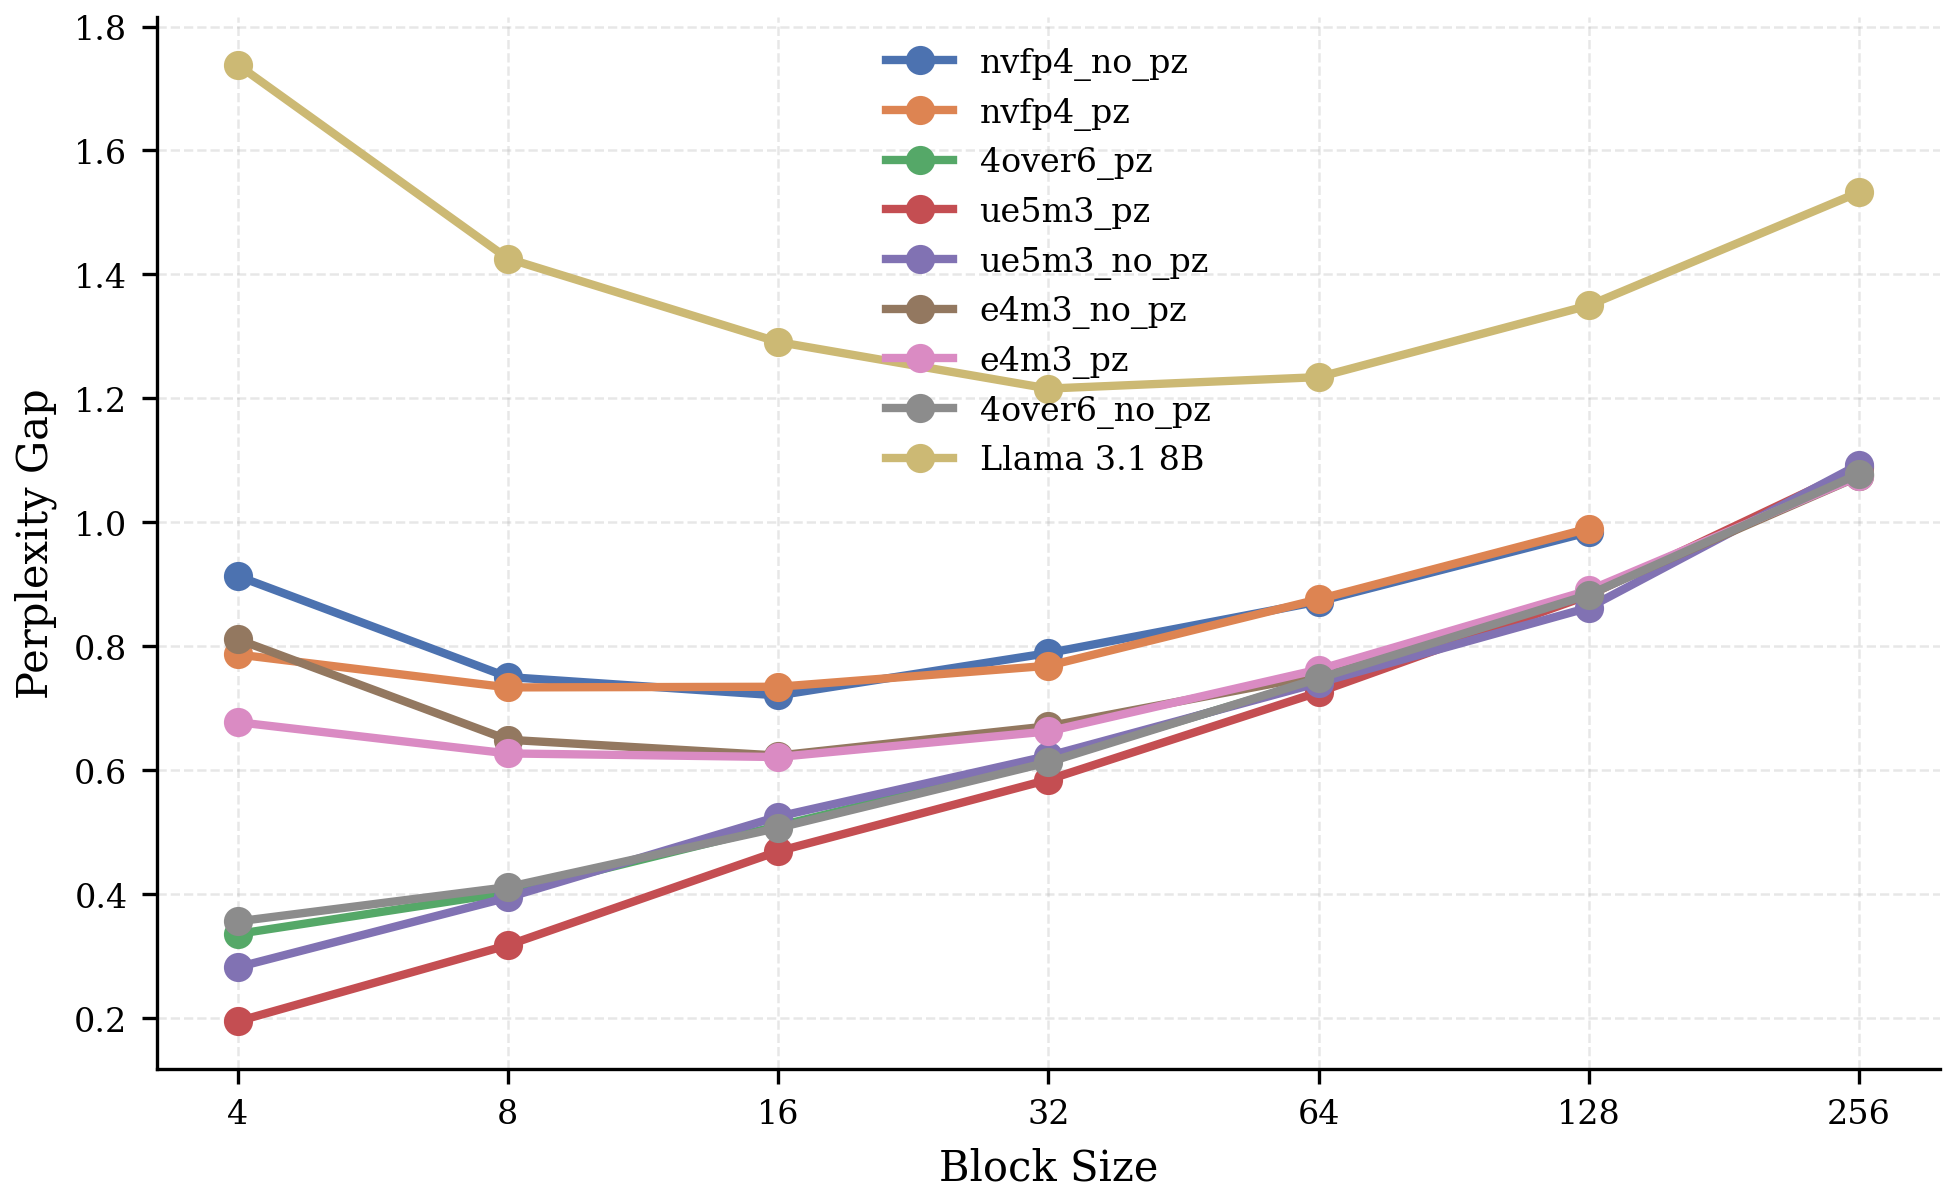
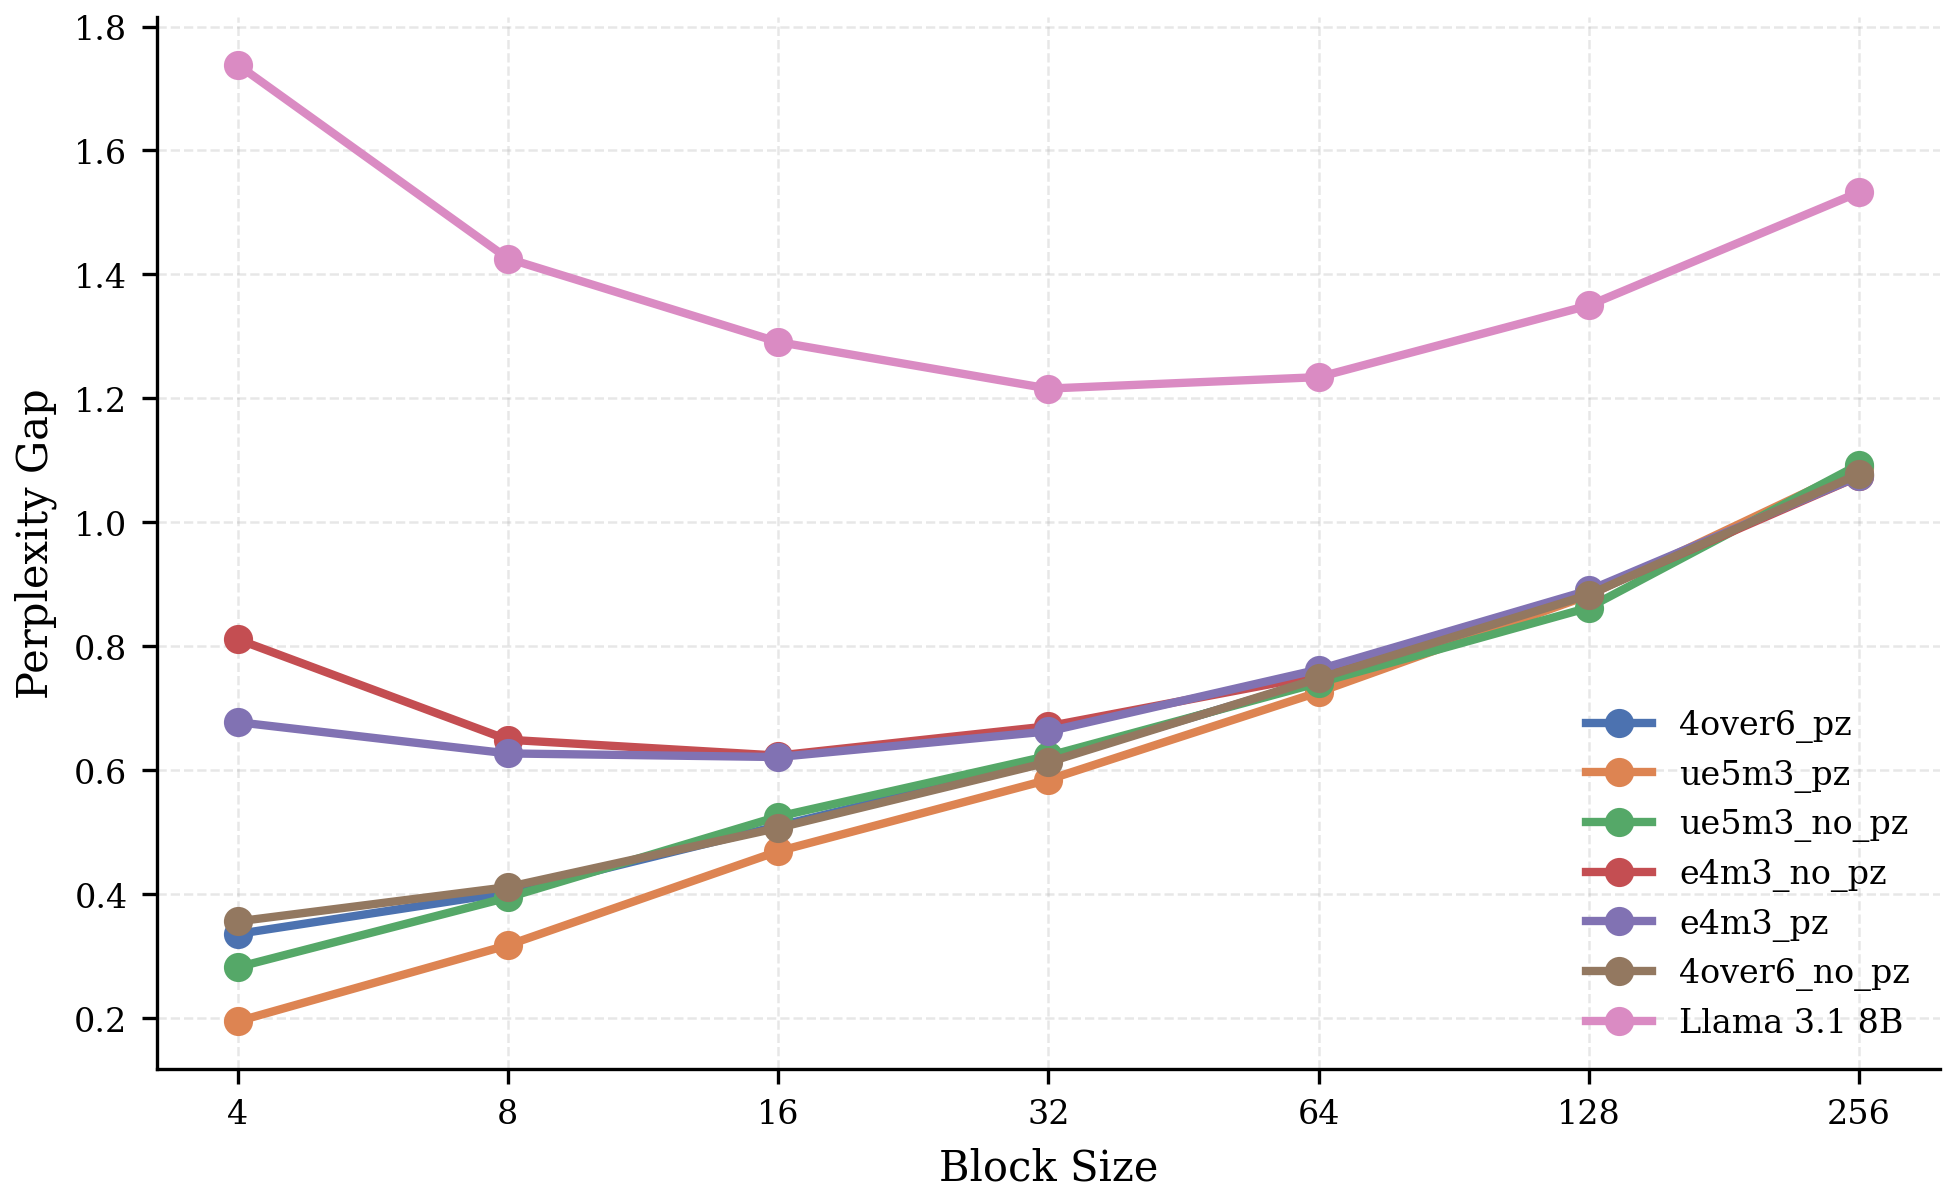
Clean up results and regenerate plots

diff --git a/README.md b/README.md
@@ -65,11 +65,9 @@ This section is automatically updated by the evaluation script after each run. D
 
 |                       |   Baseline |   BS=4 |   BS=8 |   BS=16 |   BS=32 |   BS=64 |   BS=128 |   BS=256 |
 |:----------------------|-----------:|-------:|-------:|--------:|--------:|--------:|---------:|---------:|
-| Llama_nvfp4_no_pz     |     nan    |   0.91 |   0.75 |    0.72 |    0.79 |    0.87 |     0.98 |   nan    |
-| Llama_nvfp4_pz        |     nan    |   0.79 |   0.73 |    0.73 |    0.77 |    0.88 |     0.99 |   nan    |
 | Llama_4over6_pz       |     nan    |   0.34 |   0.4  |    0.51 |    0.62 |    0.75 |     0.88 |     1.08 |
 | Llama_ue5m3_pz        |     nan    |   0.19 |   0.32 |    0.47 |    0.58 |    0.73 |     0.88 |     1.09 |
-| Llama_nvfp4           |       6.33 | nan    | nan    |  nan    |  nan    |  nan    |   nan    |   nan    |
+| Llama_e4m3            |       6.33 | nan    | nan    |  nan    |  nan    |  nan    |   nan    |   nan    |
 | Llama_ue5m3_no_pz     |     nan    |   0.28 |   0.39 |    0.53 |    0.62 |    0.74 |     0.86 |     1.09 |
 | Llama_e4m3_no_pz      |     nan    |   0.81 |   0.65 |    0.62 |    0.67 |    0.75 |     0.88 |     1.07 |
 | Llama_e4m3_pz         |     nan    |   0.68 |   0.63 |    0.62 |    0.66 |    0.76 |     0.89 |     1.07 |
@@ -95,20 +93,14 @@ This section is automatically updated by the evaluation script after each run. D
 ### Graphs
 <table>
   <tr>
-    <td><img src="plots/gap_llama_nvfp4_no_pz.png" alt="Llama_nvfp4_no_pz Gap" width="400">
-<p align="center">Llama_nvfp4_no_pz Gap</p></td>
-    <td><img src="plots/gap_llama_nvfp4_pz.png" alt="Llama_nvfp4_pz Gap" width="400">
-<p align="center">Llama_nvfp4_pz Gap</p></td>
-  </tr>
-  <tr>
     <td><img src="plots/gap_llama_4over6_pz.png" alt="Llama_4over6_pz Gap" width="400">
 <p align="center">Llama_4over6_pz Gap</p></td>
     <td><img src="plots/gap_llama_ue5m3_pz.png" alt="Llama_ue5m3_pz Gap" width="400">
 <p align="center">Llama_ue5m3_pz Gap</p></td>
   </tr>
   <tr>
-    <td><img src="plots/gap_llama_nvfp4.png" alt="Llama_nvfp4 Gap" width="400">
-<p align="center">Llama_nvfp4 Gap</p></td>
+    <td><img src="plots/gap_llama_e4m3.png" alt="Llama_e4m3 Gap" width="400">
+<p align="center">Llama_e4m3 Gap</p></td>
     <td><img src="plots/gap_llama_ue5m3_no_pz.png" alt="Llama_ue5m3_no_pz Gap" width="400">
 <p align="center">Llama_ue5m3_no_pz Gap</p></td>
   </tr>
